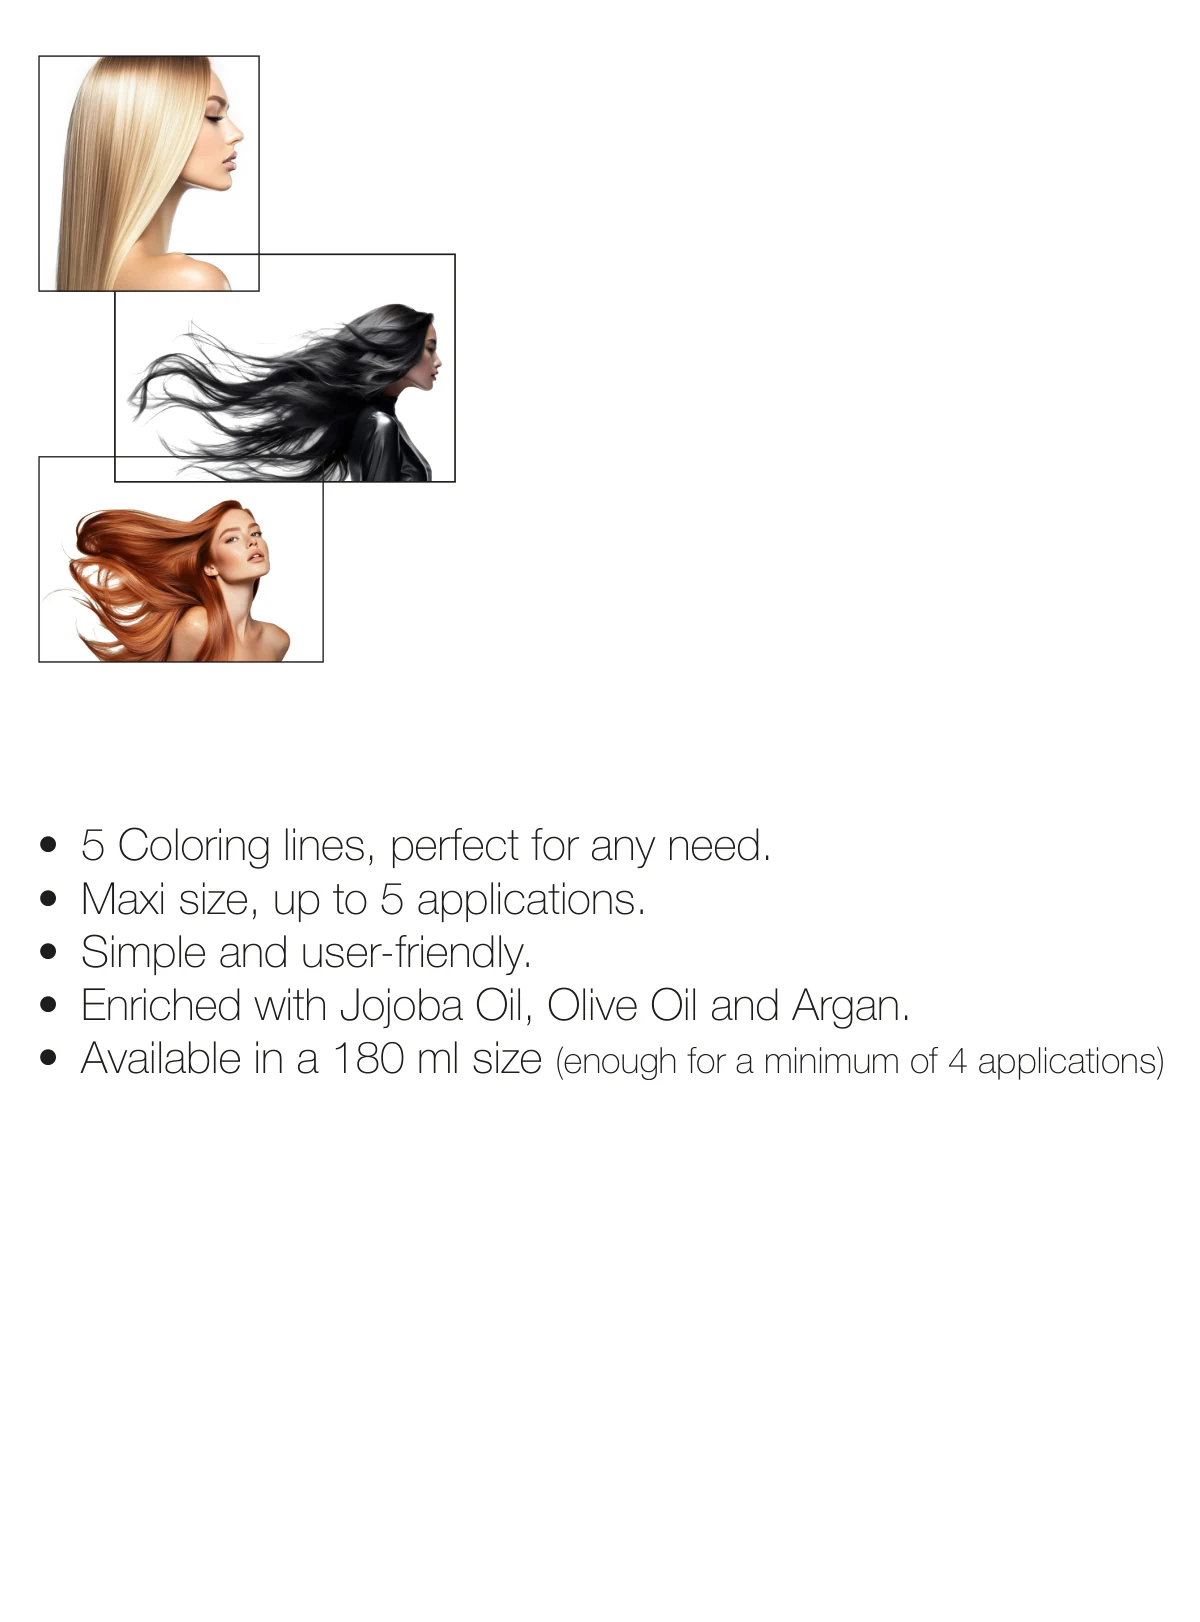
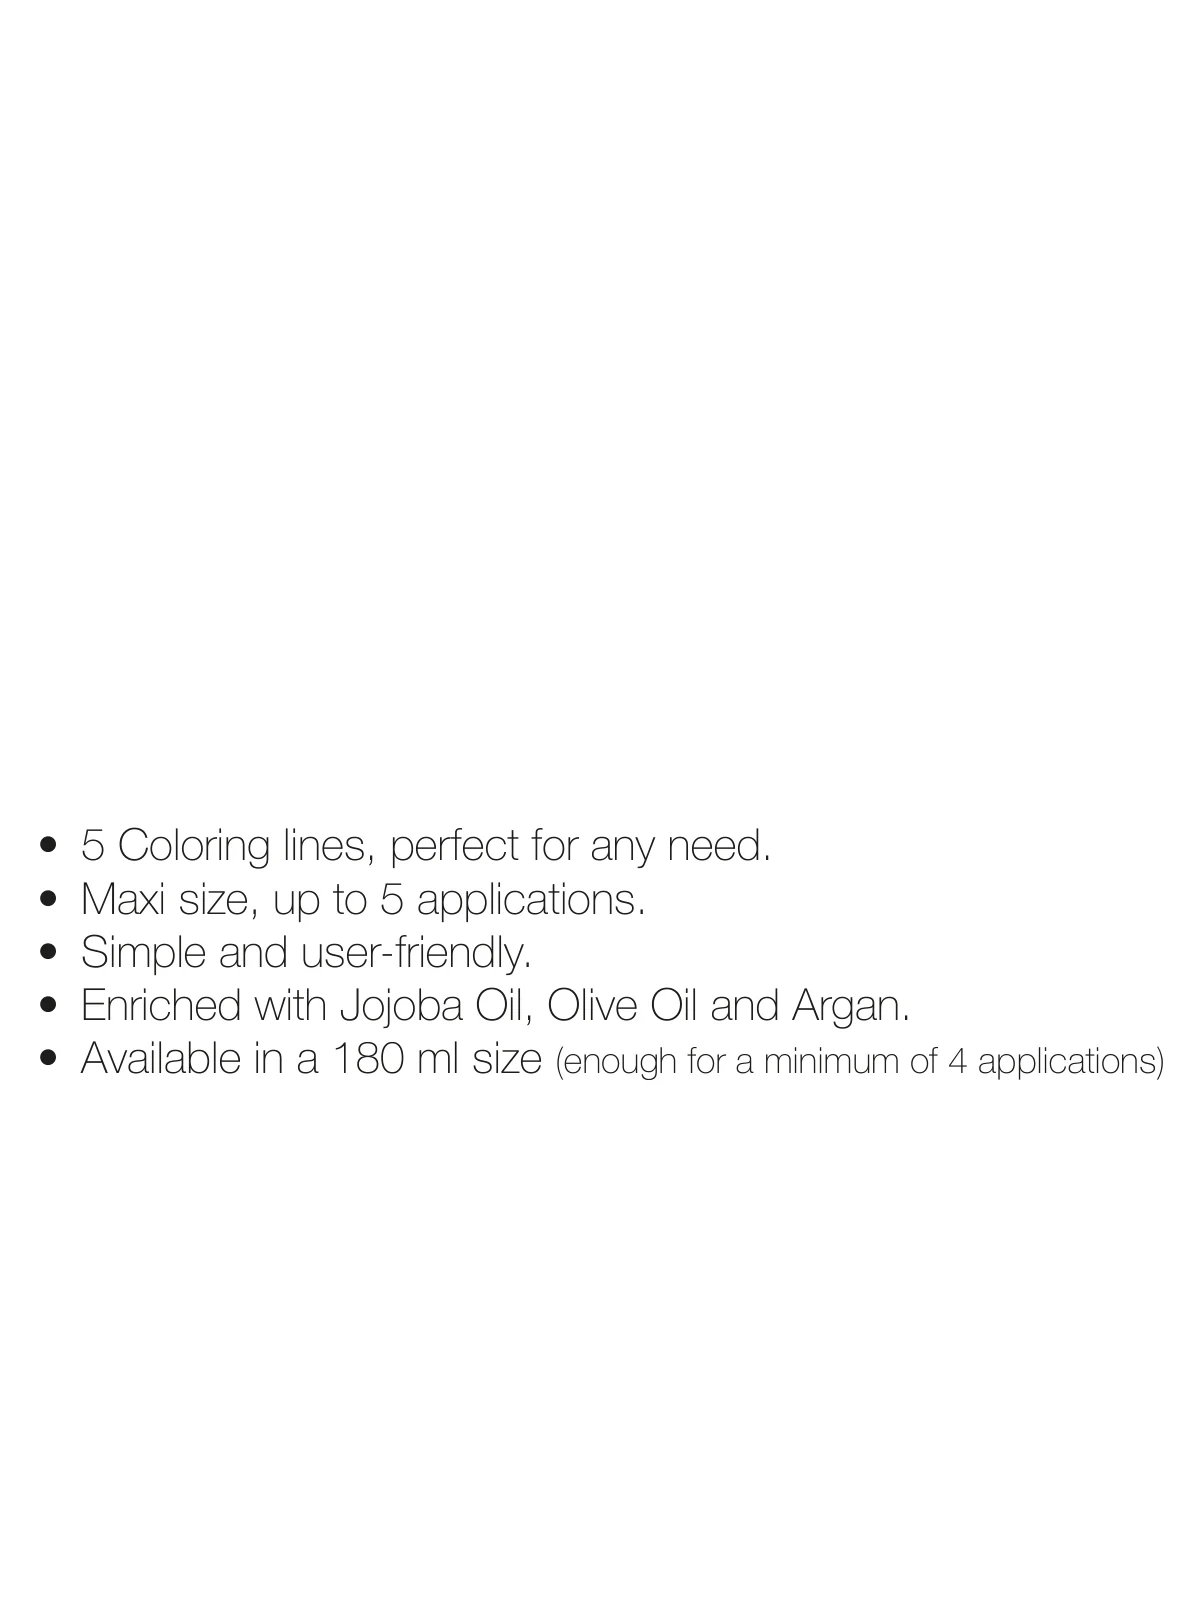
Add files via upload

Changed region(s): [[0.0308, 0.0308, 0.37, 0.4316]]

diff --git a/wild-color-hair-color-cream.html b/wild-color-hair-color-cream.html
@@ -13,7 +13,7 @@
   <link href="https://fonts.googleapis.com/css2?family=Roboto:wght@100;300;400;500;700&display=swap" rel="stylesheet">
 
   <link rel="stylesheet" href="assets/css/style.css">
-  <link rel="stylesheet" href="assets/css/product.css?v=20261104b">
+  <link rel="stylesheet" href="assets/css/product.css?v=20261104d">
 </head>
 <body class="page-product">
 
@@ -108,13 +108,27 @@
       </header>
 
       <div class="hc-sheet">
-        <!-- fondo: ragazze con le cornici + punti elenco -->
+        <!-- fondo: punti elenco (le ragazze sono livelli a parte, sotto) -->
         <img class="hc-sheet__bg"
-             src="assets/img/products/hair-color-cream/sheet-bg-1200.webp?v=20261102"
-             srcset="assets/img/products/hair-color-cream/sheet-bg-1200.webp?v=20261102 1200w, assets/img/products/hair-color-cream/sheet-bg-2400.webp?v=20261102 2400w"
+             src="assets/img/products/hair-color-cream/sheet-bg-1200.webp?v=20261104"
+             srcset="assets/img/products/hair-color-cream/sheet-bg-1200.webp?v=20261104 1200w, assets/img/products/hair-color-cream/sheet-bg-2400.webp?v=20261104 2400w"
              sizes="(max-width: 600px) calc(100vw - 32px), (max-width: 1248px) calc(100vw - 48px), 1200px"
              width="2400" height="3244" fetchpriority="high"
-             alt="Three models with blonde, black and copper red hair. 5 coloring lines, perfect for any need. Maxi size, up to 5 applications. Simple and user-friendly. Enriched with jojoba oil, olive oil and argan. Available in a 180 ml size (enough for a minimum of 4 applications).">
+             alt="5 coloring lines, perfect for any need. Maxi size, up to 5 applications. Simple and user-friendly. Enriched with jojoba oil, olive oil and argan. Available in a 180 ml size (enough for a minimum of 4 applications).">
+
+        <!-- le 3 ragazze nei riquadri: ogni 2,5 s si rimescolano in volo (hc-girls.js);
+             data-w / data-h = riquadro in pt (centro del filo), data-s = spessore del filo -->
+        <div class="hc-girls">
+          <img class="hc-girl hc-girl--blonde" src="assets/img/products/hair-color-cream/girl-blonde.webp?v=20261104"
+               width="464" height="496" decoding="async" data-w="153.332" data-h="163.761" data-s="0.955"
+               alt="Model with long straight blonde hair">
+          <img class="hc-girl hc-girl--black" src="assets/img/products/hair-color-cream/girl-black.webp?v=20261104"
+               width="715" height="480" decoding="async" data-w="237.038" data-h="158.541" data-s="1.16"
+               alt="Model with long black hair blowing in the wind">
+          <img class="hc-girl hc-girl--red" src="assets/img/products/hair-color-cream/girl-red.webp?v=20261104"
+               width="598" height="433" decoding="async" data-w="197.994" data-h="142.968" data-s="0.955"
+               alt="Model with flowing copper red hair">
+        </div>
 
         <!-- scritta WILDCOLOR: cambia colore con i colori delle famiglie della color chart;
              ogni 10 s esce scorrendo a destra e rientra da sinistra (passa dietro ai tubetti) -->
@@ -138,13 +152,13 @@
           <li><button class="hc-family hc-family--1" type="button" data-family="permanent" data-title="Color Permanent" data-theme="dark" aria-haspopup="dialog" aria-expanded="false" aria-controls="fam-box">
             <img class="hc-family__img" src="assets/img/products/hair-color-cream/family-permanent.webp?v=20261102" width="1351" height="215" alt="Color Permanent">
           </button></li>
-          <li><button class="hc-family hc-family--2" type="button" data-family="ammonia-free" data-title="Ammonia Free" aria-haspopup="dialog" aria-expanded="false" aria-controls="fam-box">
+          <li><button class="hc-family hc-family--2" type="button" data-family="ammonia-free" data-title="Ammonia Free" data-theme="dark" aria-haspopup="dialog" aria-expanded="false" aria-controls="fam-box">
             <img class="hc-family__img" src="assets/img/products/hair-color-cream/family-ammonia-free.webp?v=20261102" width="1351" height="215" alt="Ammonia Free">
           </button></li>
-          <li><button class="hc-family hc-family--3" type="button" data-family="all-free" data-title="All Free" aria-haspopup="dialog" aria-expanded="false" aria-controls="fam-box">
+          <li><button class="hc-family hc-family--3" type="button" data-family="all-free" data-title="All Free" data-theme="dark" aria-haspopup="dialog" aria-expanded="false" aria-controls="fam-box">
             <img class="hc-family__img" src="assets/img/products/hair-color-cream/family-all-free.webp?v=20261102" width="1351" height="215" alt="All Free">
           </button></li>
-          <li><button class="hc-family hc-family--4" type="button" data-family="acid-color" data-title="Acid Color" aria-haspopup="dialog" aria-expanded="false" aria-controls="fam-box">
+          <li><button class="hc-family hc-family--4" type="button" data-family="acid-color" data-title="Acid Color" data-theme="dark" aria-haspopup="dialog" aria-expanded="false" aria-controls="fam-box">
             <img class="hc-family__img" src="assets/img/products/hair-color-cream/family-acid-color.webp?v=20261102" width="1351" height="215" alt="Acid Color">
           </button></li>
           <li><button class="hc-family hc-family--5" type="button" data-family="direct-color" data-title="Direct Color" data-theme="dark" aria-haspopup="dialog" aria-expanded="false" aria-controls="fam-box">
@@ -214,16 +228,76 @@
           </div>
         </section>
         <section class="fam-box__panel" data-family="ammonia-free" hidden>
-          <!-- contenuto Ammonia Free: da definire -->
-          <p class="fam-box__soon">Information coming soon</p>
+          <!-- dal PDF "Box pop descritctions hair color lines" (1616 × 1566 pt) -->
+          <div class="ln-sheet">
+            <img class="ln-sheet__bg"
+                 src="assets/img/products/hair-color-cream/line-box-tubes.webp?v=20261104"
+                 width="1376" height="768" loading="lazy" decoding="async" alt="">
+            <img class="ln-sheet__tube ln-sheet__tube--top"
+                 src="assets/img/products/hair-color-cream/line-box-tube-top.webp?v=20261104"
+                 width="537" height="236" loading="lazy" decoding="async" alt="">
+            <div class="ln-sheet__text">
+              <span class="ln-sheet__wrap" aria-hidden="true"></span>
+              <p>Wild Color™ Ammonia Free is permanent color for those who want a complete, professional result from an ammonia-free formula. The name says it all: traditional hair color, reimagined, with no compromise on performance.</p>
+              <p>Alternative alkalizing agents take the place of ammonia and do the same technical job, preparing the hair fiber so the pigments can work in depth. The outcome matches traditional color, with complete gray coverage.</p>
+              <p>Every pigment in the range has been carefully selected for a wide choice of shades and endless combinations. Colorists can create custom shades, from the most natural to the most sophisticated, and count on consistent, effective results.</p>
+              <p>Wild Color™ Ammonia Free is the ideal answer for salons that want a complete permanent color service: performance, comfort and versatility, together in one product.</p>
+            </div>
+            <img class="ln-sheet__tube ln-sheet__tube--bottom"
+                 src="assets/img/products/hair-color-cream/line-box-tube-bottom.webp?v=20261104"
+                 width="598" height="348" loading="lazy" decoding="async" alt="">
+            <div class="ln-sheet__photo">
+              <!-- immagine della linea Ammonia Free: da inserire -->
+            </div>
+          </div>
         </section>
         <section class="fam-box__panel" data-family="all-free" hidden>
-          <!-- contenuto All Free: da definire -->
-          <p class="fam-box__soon">Information coming soon</p>
+          <!-- dal PDF "Box pop descritctions hair color lines" (1616 × 1566 pt) -->
+          <div class="ln-sheet">
+            <img class="ln-sheet__bg"
+                 src="assets/img/products/hair-color-cream/line-box-tubes.webp?v=20261104"
+                 width="1376" height="768" loading="lazy" decoding="async" alt="">
+            <img class="ln-sheet__tube ln-sheet__tube--top"
+                 src="assets/img/products/hair-color-cream/line-box-tube-top.webp?v=20261104"
+                 width="537" height="236" loading="lazy" decoding="async" alt="">
+            <div class="ln-sheet__text">
+              <span class="ln-sheet__wrap" aria-hidden="true"></span>
+              <p>Wild Color™ All Free Hair Color is professional color with the utmost respect for the hair, even the most sensitive. The formula is free from ammonia, parabens, PPD, resorcinol and silicones: a deliberate choice, built for high performance.</p>
+              <p>Specific, high-quality alternative pigments make it possible to leave these ingredients out without losing color quality. Each one is selected through dedicated testing and precise ratios between color components, for top intensity, evenness and shine.</p>
+              <p>Coloring becomes a more pleasant, comfortable experience, for clients and for professionals in the salon every day. Colorists keep full control of the result and work with confidence, even for clients who look closely at what goes into their products.</p>
+              <p>Wild Color™ All Free brings color performance and respect for the hair fiber together: the ideal choice for salons serving increasingly conscious clients.</p>
+            </div>
+            <img class="ln-sheet__tube ln-sheet__tube--bottom"
+                 src="assets/img/products/hair-color-cream/line-box-tube-bottom.webp?v=20261104"
+                 width="598" height="348" loading="lazy" decoding="async" alt="">
+            <div class="ln-sheet__photo">
+              <!-- immagine della linea All Free: da inserire -->
+            </div>
+          </div>
         </section>
         <section class="fam-box__panel" data-family="acid-color" hidden>
-          <!-- contenuto Acid Color: da definire -->
-          <p class="fam-box__soon">Information coming soon</p>
+          <!-- dal PDF "Box pop descritctions hair color lines" (1616 × 1566 pt) -->
+          <div class="ln-sheet">
+            <img class="ln-sheet__bg"
+                 src="assets/img/products/hair-color-cream/line-box-tubes.webp?v=20261104"
+                 width="1376" height="768" loading="lazy" decoding="async" alt="">
+            <img class="ln-sheet__tube ln-sheet__tube--top"
+                 src="assets/img/products/hair-color-cream/line-box-tube-top.webp?v=20261104"
+                 width="537" height="236" loading="lazy" decoding="async" alt="">
+            <div class="ln-sheet__text">
+              <span class="ln-sheet__wrap" aria-hidden="true"></span>
+              <p>Wild Color™ Acid Color is a demi-permanent system designed for precise color results that fully respect the integrity of the hair. Its low-alkalinity formula works exclusively with a 2.5-volume oxidizing emulsion, for a controlled oxidative process with no significant cuticle opening and no lightening.</p>
+              <p>The natural base stays untouched. Color deposits selectively, mainly on the more porous, pre-lightened areas, so toning happens exactly where it is needed. The result is even and predictable, with no banding or spotting: perfect for bleached blondes, balayage and advanced lightening.</p>
+              <p>In the salon it is versatile and reliable, even straight at the backwash, and the mixing ratio lets colorists tune the intensity to every client.</p>
+              <p>The essential tool for modern toning: color performance, respect for the hair fiber and natural-looking results, in perfect balance.</p>
+            </div>
+            <img class="ln-sheet__tube ln-sheet__tube--bottom"
+                 src="assets/img/products/hair-color-cream/line-box-tube-bottom.webp?v=20261104"
+                 width="598" height="348" loading="lazy" decoding="async" alt="">
+            <div class="ln-sheet__photo">
+              <!-- immagine della linea Acid Color: da inserire -->
+            </div>
+          </div>
         </section>
         <section class="fam-box__panel" data-family="direct-color" hidden>
           <!-- dal PDF "direct color box" -->
@@ -265,5 +339,6 @@
   <script src="assets/js/main.js" defer></script>
   <script src="assets/js/typewriter.js?v=20261028b" defer></script>
   <script src="assets/js/hair-color-cream.js?v=20261102b" defer></script>
+  <script src="assets/js/hc-girls.js?v=20261104" defer></script>
 </body>
 </html>

diff --git a/assets/js/hc-girls.js b/assets/js/hc-girls.js
@@ -1,0 +1,126 @@
+/* ==========================================================================
+   WILD COLOR – Hair Color Cream: le 3 ragazze nei riquadri si rimescolano
+   - ferme 2,5 s, poi volano insieme per 1,8 s su traiettorie curve e
+     irregolari ("sciame") e si posano in un ordine nuovo, all'infinito;
+   - disposizione sempre come nel PDF: 1ª e 3ª allineate a sinistra, quella
+     in mezzo allineata a destra; sovrapposizioni fisse (25,6 e 17,4 pt), quindi
+     l'ingombro verticale complessivo resta identico (y 38,85 → 461,09 pt);
+   - si ferma se il riquadro è fuori schermo o la scheda del browser è nascosta;
+   - con "riduci movimento" restano ferme nell'ordine di partenza.
+   Misure in pt della pagina del PDF (836,22 × 1130,06), trasformate in %.
+   ========================================================================== */
+(function () {
+  'use strict';
+
+  var box = document.querySelector('.hc-girls');
+  if (!box || !box.animate) return;
+  if (window.matchMedia && window.matchMedia('(prefers-reduced-motion: reduce)').matches) return;
+
+  var PAGE_W = 836.22, PAGE_H = 1130.06;
+  var TOP = 38.850;                 // bordo alto del primo riquadro (centro del filo)
+  var LEFT = 27.004;                // 1º e 3º riquadro: filo sinistro
+  var RIGHT = 316.829;              // riquadro di mezzo: filo destro
+  var OVERLAP = [25.607, 17.426];   // sovrapposizione 1º/2º e 2º/3º
+  var SWARM = { x0: 6, x1: 330, y0: 18, y1: 478 };   // area del volo (a sinistra dei pulsanti)
+  var HOLD = 2500, FLIGHT = 1800, STAGGER = 70;
+
+  var cards = Array.prototype.slice.call(box.querySelectorAll('.hc-girl')).map(function (el) {
+    return {
+      el: el,
+      w: parseFloat(el.getAttribute('data-w')),   // riquadro (centro del filo), pt
+      h: parseFloat(el.getAttribute('data-h')),
+      s: parseFloat(el.getAttribute('data-s'))    // spessore del filo, pt
+    };
+  });
+  if (cards.length !== 3) return;
+
+  var order = [0, 1, 2];            // ordine di partenza = quello del PDF
+  var pos = layout(order);
+
+  function layout(ord) {
+    var y = TOP, out = [];
+    ord.forEach(function (i, k) {
+      var c = cards[i];
+      out[i] = { x: k === 1 ? RIGHT - c.w : LEFT, y: y, r: 0 };
+      y += c.h - (OVERLAP[k] || 0);
+    });
+    return out;
+  }
+
+  function css(c, p) {
+    return {
+      left: ((p.x - c.s / 2) / PAGE_W * 100).toFixed(4) + '%',
+      top: ((p.y - c.s / 2) / PAGE_H * 100).toFixed(4) + '%',
+      transform: 'rotate(' + p.r.toFixed(2) + 'deg)'
+    };
+  }
+
+  function rnd(a, b) { return a + Math.random() * (b - a); }
+
+  // Catmull-Rom: curva morbida che passa per tutti i punti
+  function cr(p0, p1, p2, p3, t) {
+    var t2 = t * t, t3 = t2 * t;
+    return 0.5 * (2 * p1 + (p2 - p0) * t + (2 * p0 - 5 * p1 + 4 * p2 - p3) * t2 + (3 * p1 - p0 - 3 * p2 + p3) * t3);
+  }
+
+  function path(c, from, to) {
+    var pts = [from];
+    for (var n = 0; n < 3; n++) {
+      pts.push({ x: rnd(SWARM.x0, SWARM.x1 - c.w), y: rnd(SWARM.y0, SWARM.y1 - c.h), r: rnd(-7, 7) });
+    }
+    pts.push(to);
+    var ext = [pts[0]].concat(pts, [pts[pts.length - 1]]);
+    var frames = [], seg = pts.length - 1, steps = 12;
+    for (var s = 0; s < seg; s++) {
+      for (var k = 0; k < steps; k++) {
+        var t = k / steps, a = ext[s], b = ext[s + 1], d = ext[s + 2], e = ext[s + 3];
+        frames.push(css(c, { x: cr(a.x, b.x, d.x, e.x, t), y: cr(a.y, b.y, d.y, e.y, t), r: cr(a.r, b.r, d.r, e.r, t) }));
+      }
+    }
+    frames.push(css(c, to));
+    return frames;
+  }
+
+  function nextOrder() {
+    var all = [[0,1,2],[0,2,1],[1,0,2],[1,2,0],[2,0,1],[2,1,0]].filter(function (o) {
+      return o.join() !== order.join();
+    });
+    return all[Math.floor(Math.random() * all.length)];
+  }
+
+  function shuffle(done) {
+    order = nextOrder();
+    var target = layout(order), left = cards.length;
+    cards.forEach(function (c, i) {
+      c.el.style.zIndex = String(1 + Math.floor(Math.random() * 3));
+      var anim = c.el.animate(path(c, pos[i], target[i]), {
+        duration: FLIGHT - STAGGER * 2,
+        delay: STAGGER * i,
+        easing: 'cubic-bezier(.42, 0, .3, 1)',
+        fill: 'forwards'
+      });
+      anim.onfinish = function () {
+        var f = css(c, target[i]);
+        c.el.style.left = f.left;
+        c.el.style.top = f.top;
+        c.el.style.transform = '';
+        anim.cancel();
+        if (--left === 0) { pos = target; done(); }
+      };
+    });
+  }
+
+  // si muove solo quando si vede
+  var visible = false;
+  if ('IntersectionObserver' in window) {
+    new IntersectionObserver(function (en) { visible = en[0].isIntersecting; }).observe(box);
+  } else {
+    visible = true;
+  }
+
+  function tick() {
+    if (!visible || document.hidden) { setTimeout(tick, 500); return; }
+    shuffle(function () { setTimeout(tick, HOLD); });
+  }
+  setTimeout(tick, HOLD);
+})();

diff --git a/assets/css/product.css b/assets/css/product.css
@@ -114,13 +114,17 @@
   text-transform: uppercase;
 }
 
-/* freccia arancio in contorno con "CLICK" che lampeggia, centrata sotto l'invito */
+/* freccia arancio in contorno con "CLICK", centrata sotto l'invito: lampeggia e
+   scende verso i pulsanti famiglia (si ferma prima del primo: 62% della propria
+   altezza = 22 px su computer, 13 px su telefono; spazio libero 34 / 18 px),
+   poi risale. Stesso ritmo del lampeggio, piena quando è giù. */
 .hc-intro__push {
   display: block;
   width: max(44px, 6.637cqw);       /* 55,5 pt */
   height: auto;
   margin: max(4px, .664cqw) auto 0; /* 5,5 pt */
-  animation: hc-push-blink 1.4s ease-in-out infinite;
+  animation: hc-push-blink 1.4s ease-in-out infinite,
+             hc-push-nudge 1.4s ease-in-out -.7s infinite;
 }
 /* solo contorno arancio, spesso come le cornici dei pulsanti famiglia (1,15 pt) */
 .hc-intro__push polygon {
@@ -141,6 +145,10 @@
   0%, 100% { opacity: 1; }
   50%      { opacity: .2; }
 }
+@keyframes hc-push-nudge {
+  0%, 100% { transform: translateY(0); }
+  50%      { transform: translateY(62%); }
+}
 
 .hc-sheet {
   position: relative;
@@ -155,6 +163,27 @@
   width: 100%;
   height: 100%;
 }
+
+/* Le 3 ragazze nei riquadri (dal PDF "girls square haircolor page", stessa
+   scala della pagina). Ogni immagine comprende già il suo filo. Posizione di
+   partenza come nel PDF; poi hc-girls.js le rimescola in volo.
+   multiply: il bianco delle foto è trasparente, così dove si sovrappongono
+   si vedono i fili e le foto di sotto, come nell'impaginato. */
+.hc-girls {
+  position: absolute;
+  inset: 0;
+  pointer-events: none;
+}
+.hc-girl {
+  position: absolute;
+  max-width: none;
+  height: auto;
+  mix-blend-mode: multiply;
+  will-change: transform;
+}
+.hc-girl--blonde { left: 3.172%; top: 3.396%;  width: 18.451%; }
+.hc-girl--black  { left: 9.473%; top: 15.612%; width: 28.485%; }
+.hc-girl--red    { left: 3.172%; top: 28.108%; width: 23.791%; }
 
 /* Scritta WILDCOLOR ----------------------------------------------------------
    Forma vettoriale presa dal PDF (SVG incorporato: nitida a ogni dimensione
